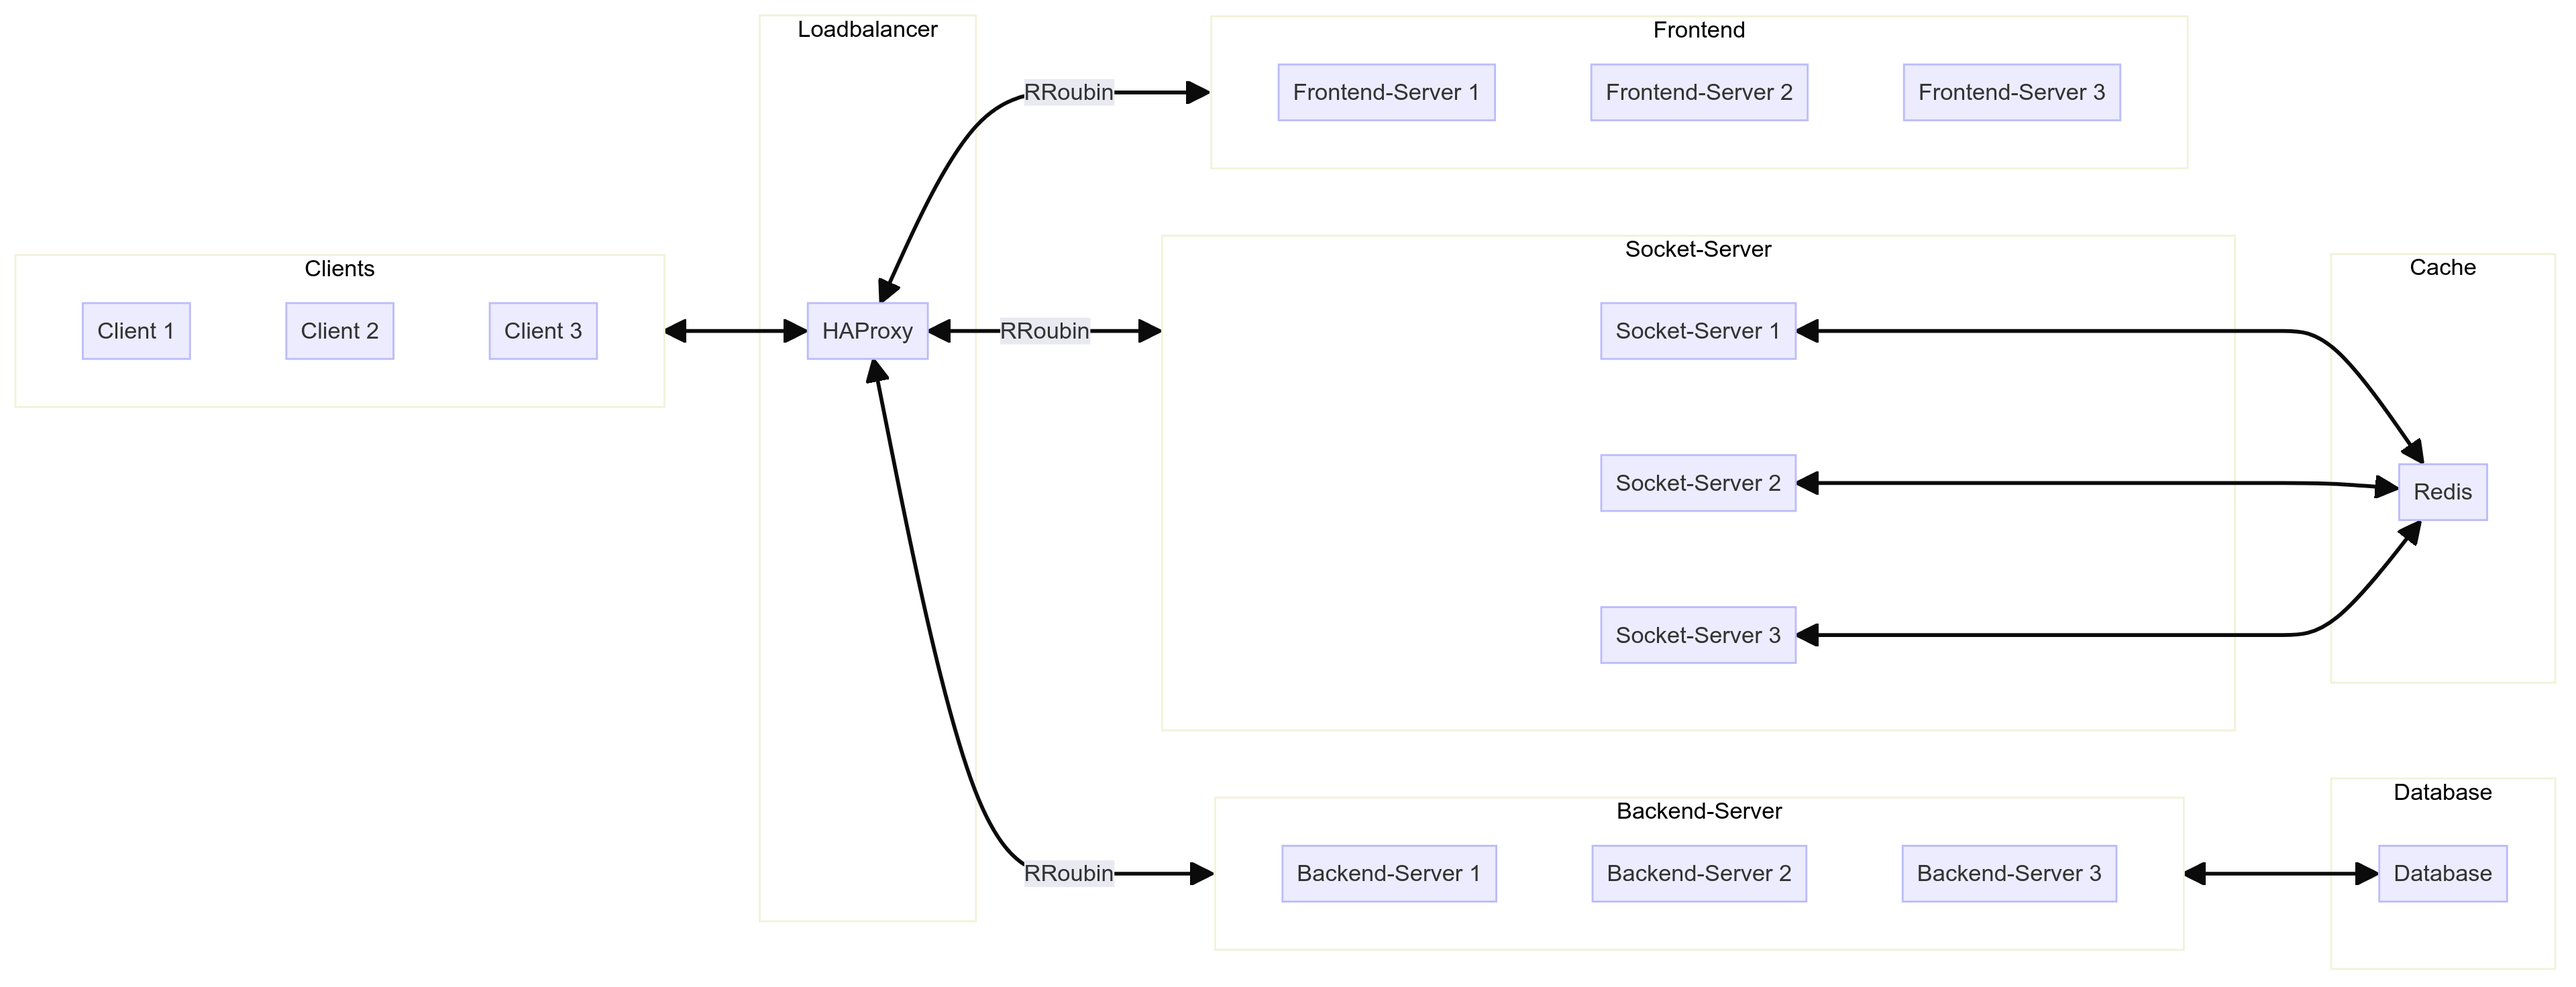
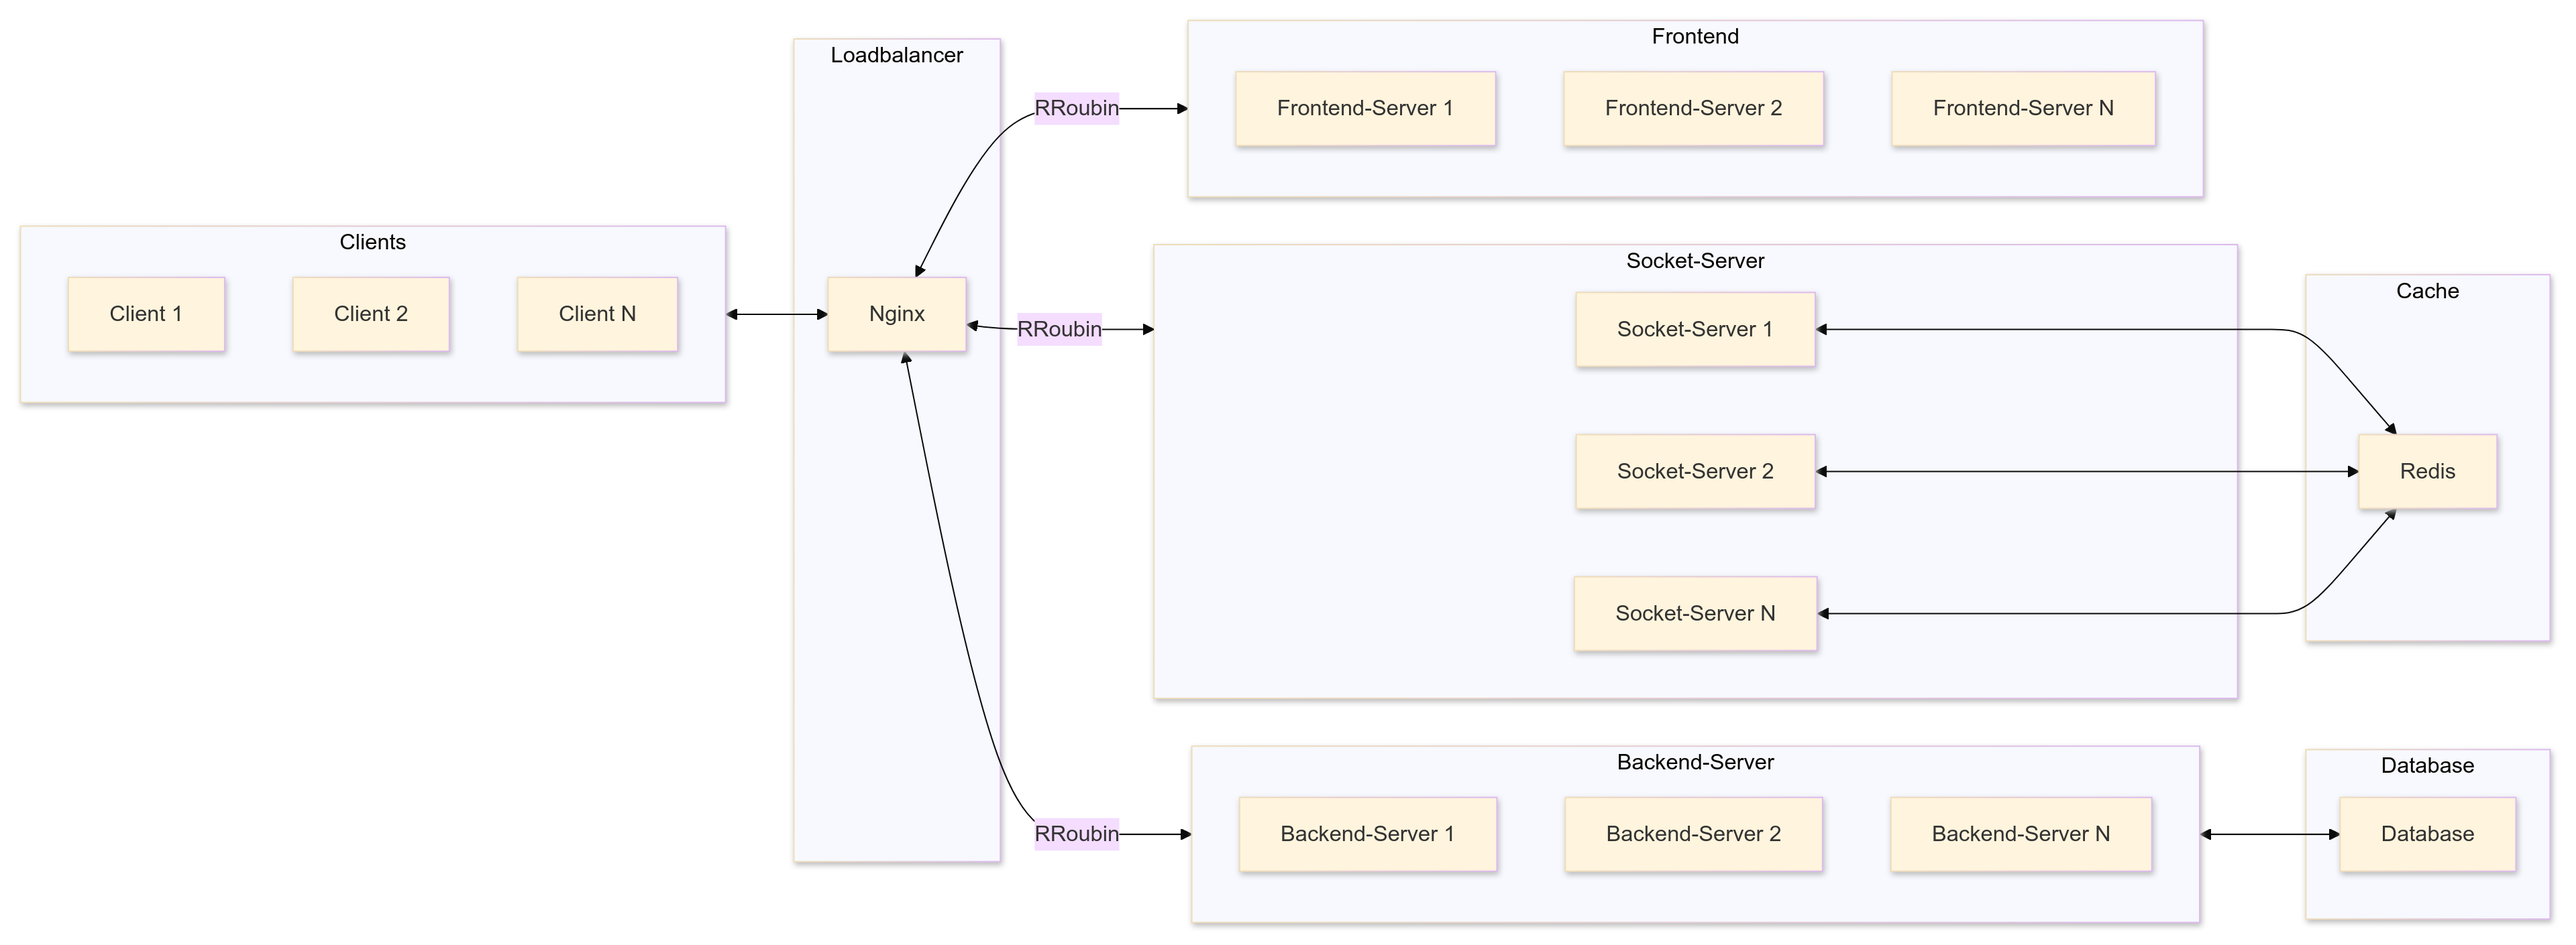
adapted architecture picture

diff --git a/README.md b/README.md
@@ -26,6 +26,8 @@ Um die Webanwendung in einer Docker-Umgebung auszuführen, folge diesen Schritte
    ```bash
    docker-compose up
 
+4. Die Webapp ist unter dem NGINX Port erreichbar (Standardkonfig: 3000)
+
 ## Architektur
 #### Overview
 ![plot](./images/Architecture.png)
